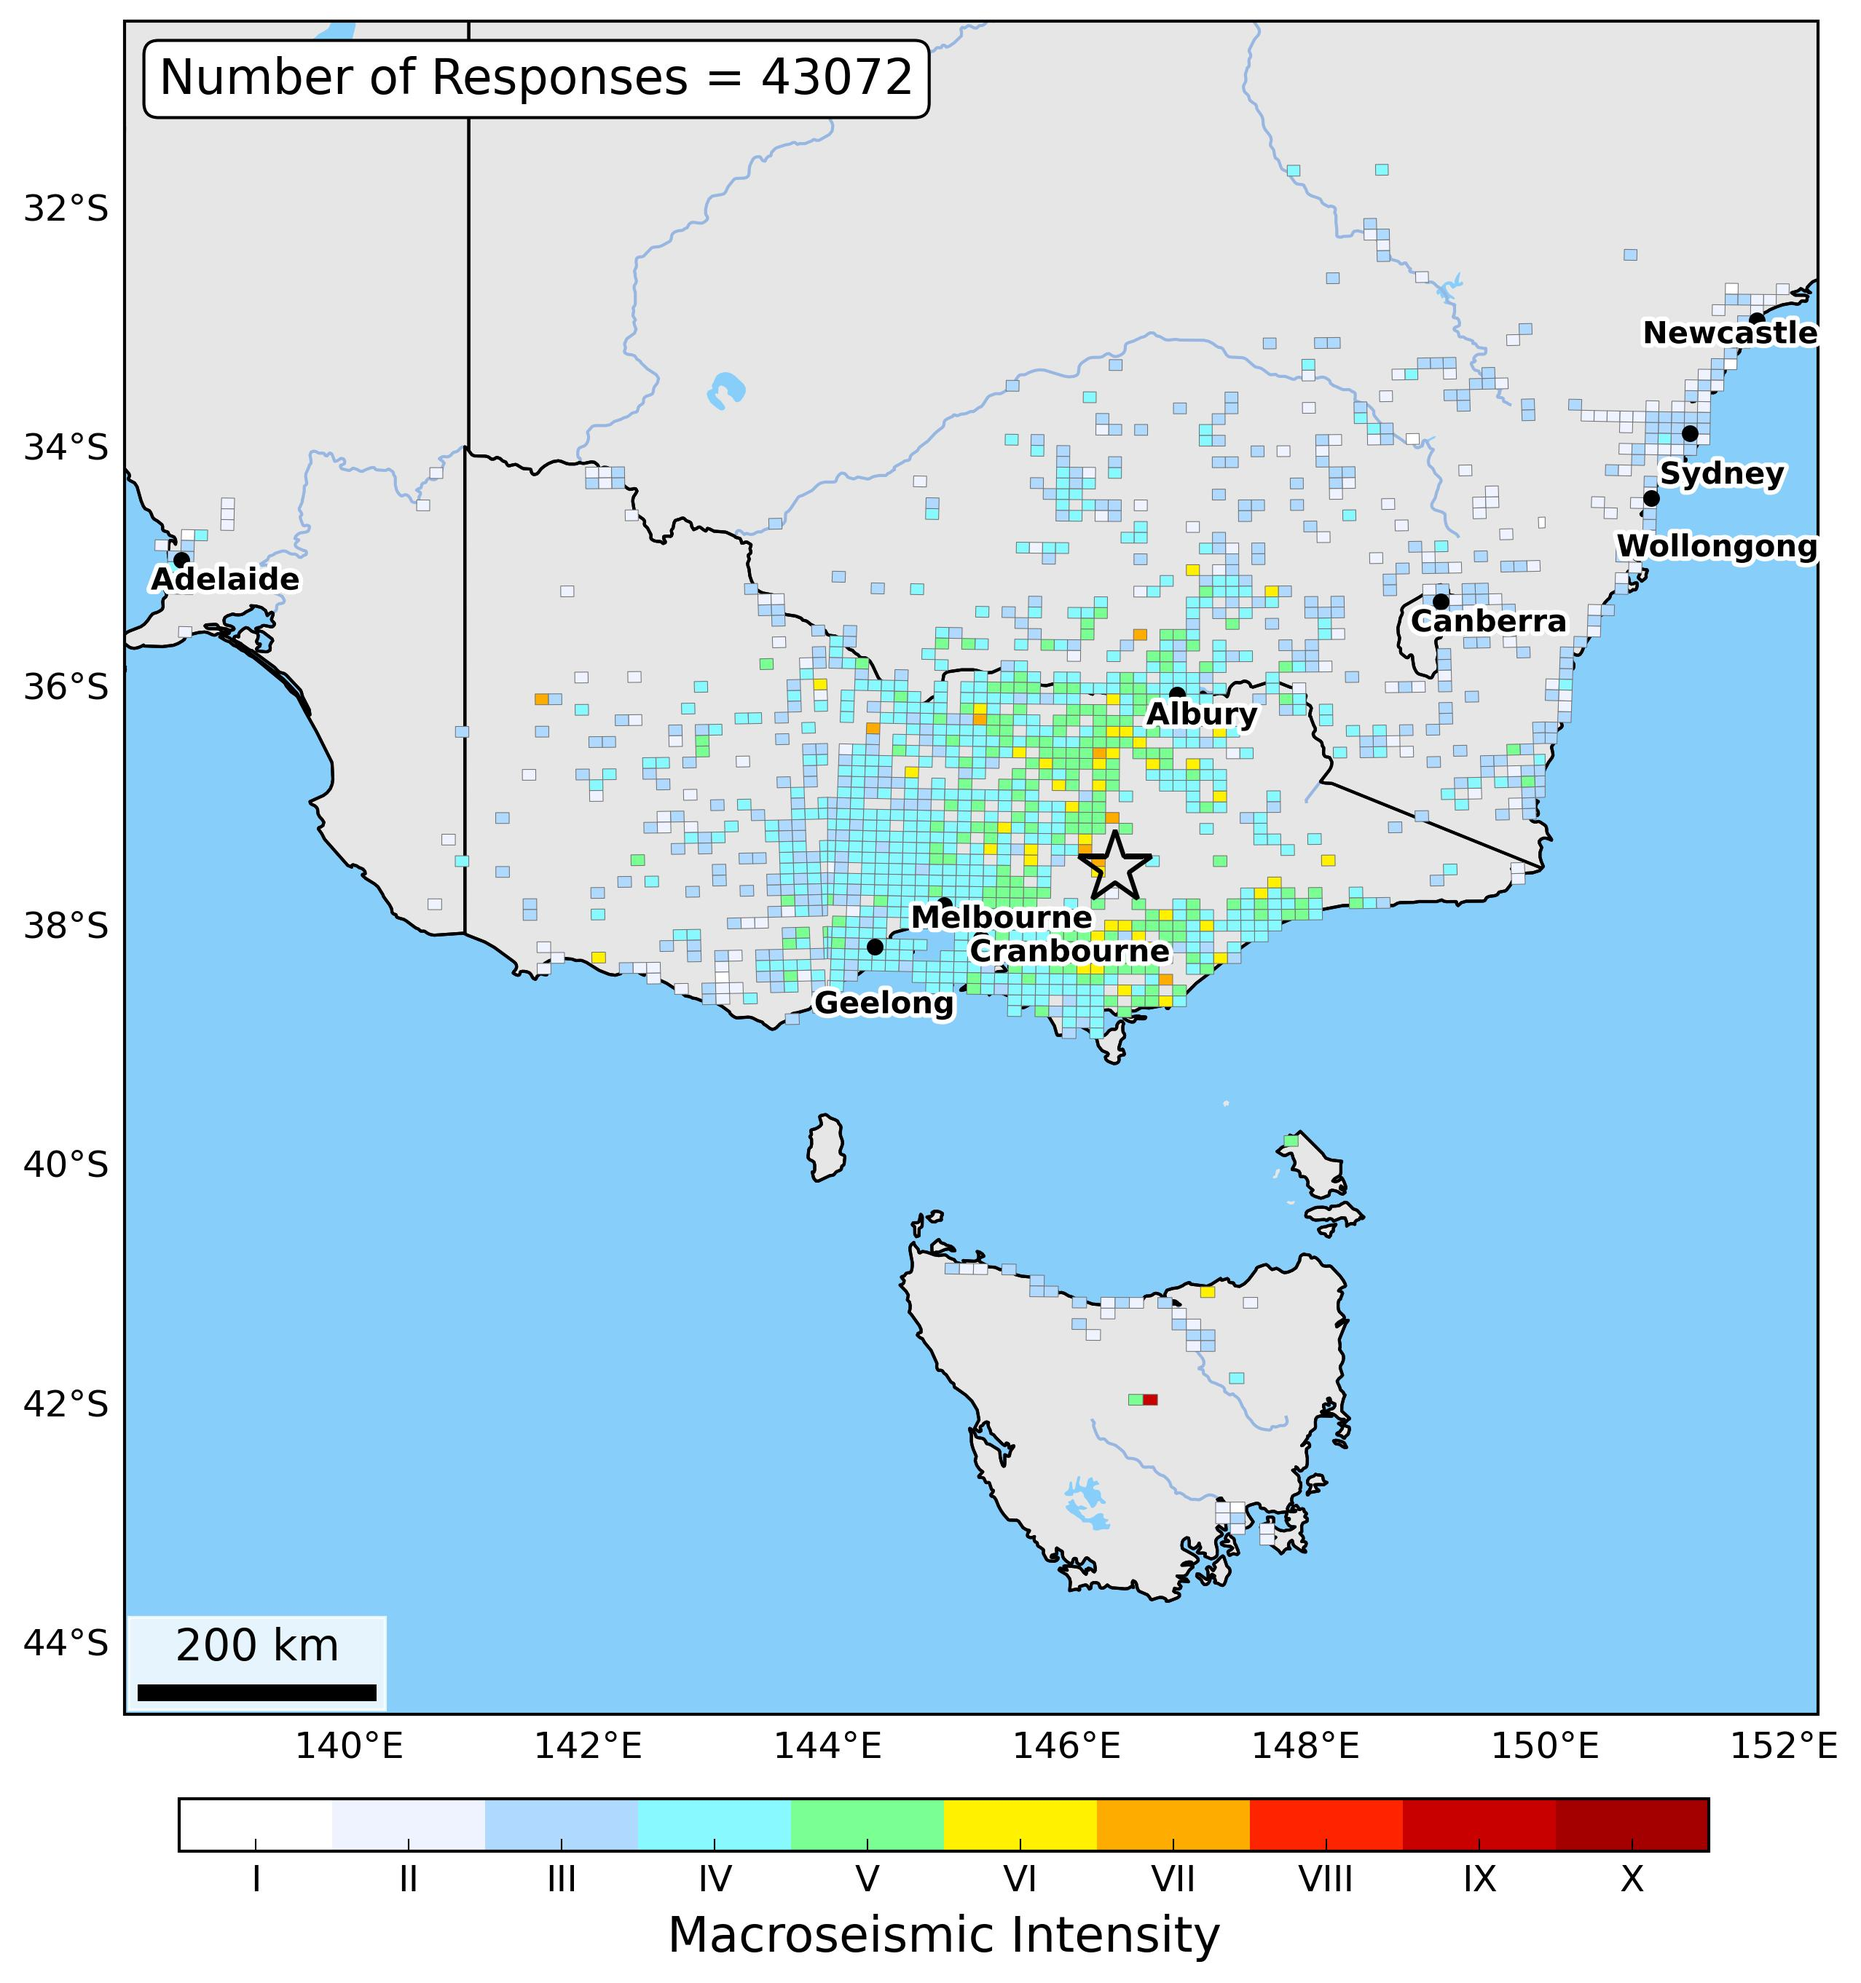
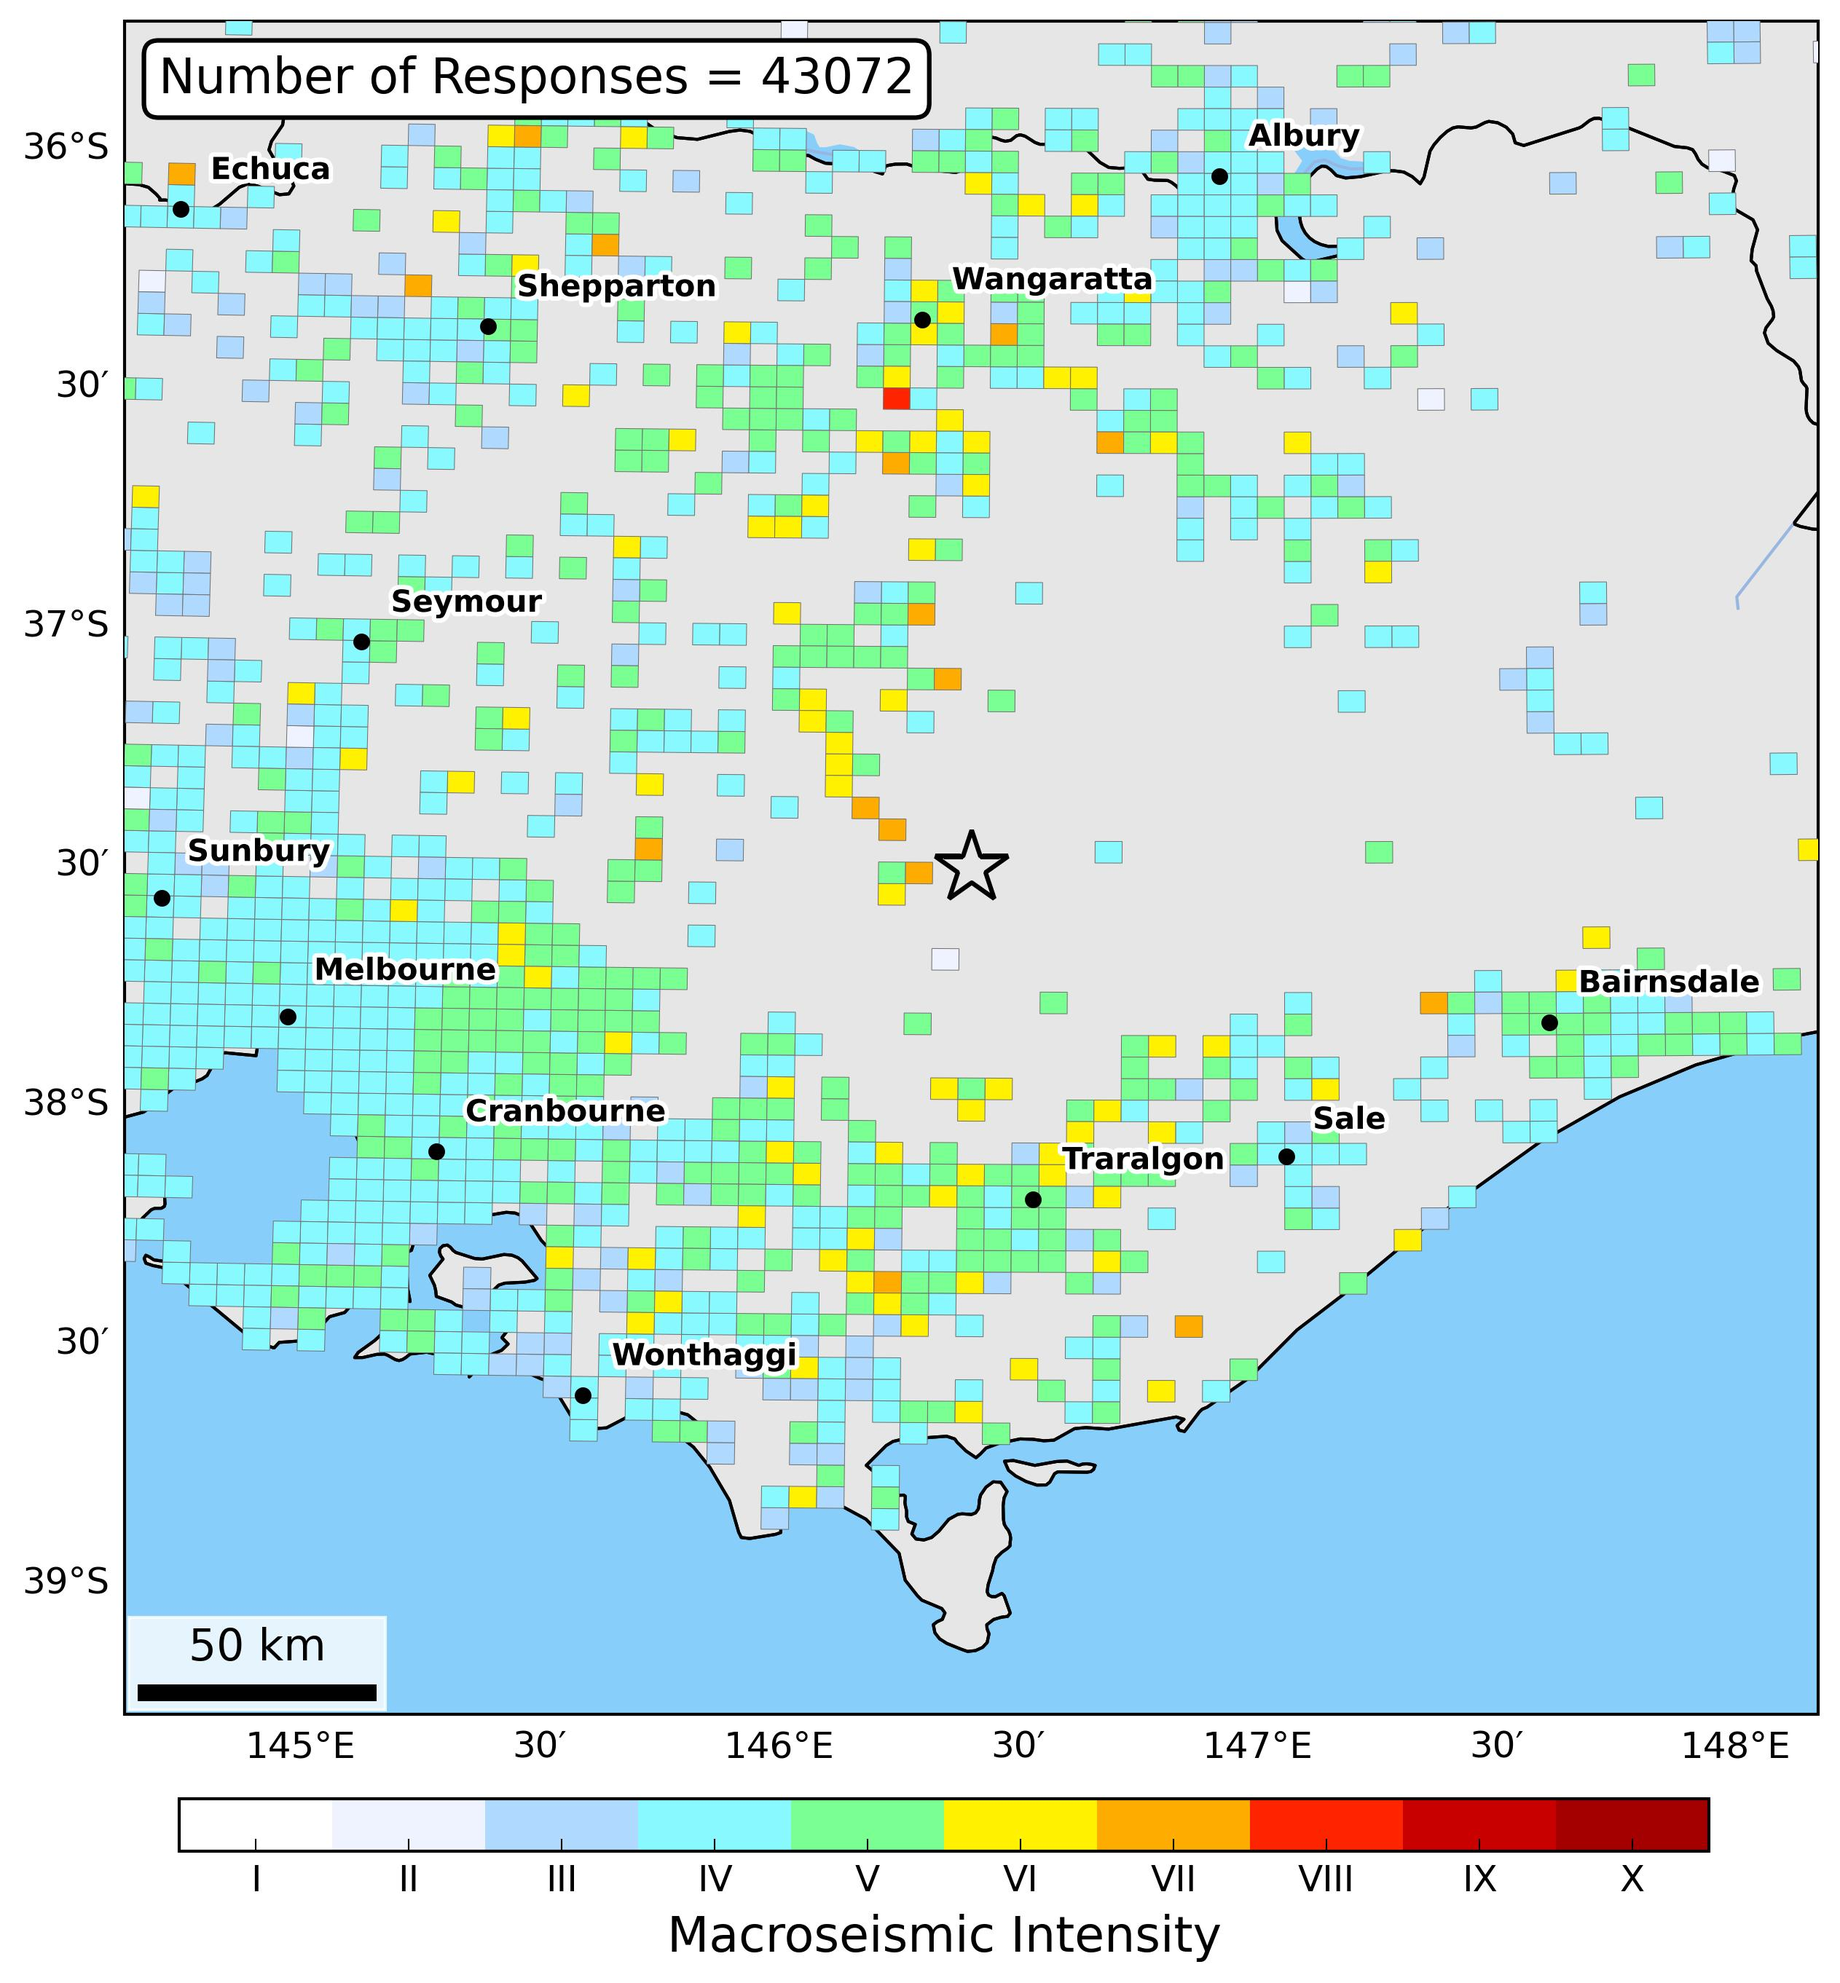
updated code and outputs

diff --git a/DYFI_Reports/DYFI_MAP.py b/DYFI_Reports/DYFI_MAP.py
@@ -48,32 +48,33 @@ for feature in data['features']:
 # set eq details
 ###############################################################################
 
-# Woods Point
-mag  = 5.9
+# Prompt the user to enter the zoom level
+zoom_factor = float(input("Enter the zoom factor (e.g., 1 for default zoom, 0.5 for closer zoom, 2 for farther view): "))
+
+# Set eq details
+mag = 5.9
 eqdep = 12.0
 eqla = -37.5063
 eqlo = 146.4022
-degrng = 5.9
+degrng = 5.9 * zoom_factor  # Adjust zoom level based on user input
 latoff = -0.0
 lonoff = -1.2
 mstr = '5.9'
 place = 'Woods Point, VIC'
 evid = '2021-09-21'
 
-##########################################################################################
-# set up map
-##########################################################################################
+# Set the map extent to center around the earthquake
+# Adjust the bounds based on `degrng` for zoom
+urcrnrlat = eqla + degrng
+llcrnrlat = eqla - degrng
+urcrnrlon = eqlo + degrng
+llcrnrlon = eqlo - degrng
 
-# make bounds on the fly - adjust to make more rectangular and taller
-urcrnrlat = eqla + degrng * 1.2 + latoff
-llcrnrlat = eqla - degrng * 1.2 + latoff
-urcrnrlon = eqlo + degrng * 1.2 + lonoff
-llcrnrlon = eqlo - degrng * 1.2 + lonoff
-
-# set up figure
+# Set up figure
 fig = plt.figure(figsize=(10, 12))
 ax = plt.axes(projection=ccrs.PlateCarree())
 ax.set_extent([llcrnrlon, urcrnrlon, llcrnrlat, urcrnrlat], crs=ccrs.PlateCarree())
+
 
 # Add map features
 ax.add_feature(cfeature.LAND, facecolor='0.9')
@@ -103,6 +104,7 @@ reader = shapereader.Reader(shpfilename)
 preferred_offset = (-0.3, -0.3)  # Preferred initial offset for placing labels (bottom-left)
 
 texts = []
+# Adjust text placement closer to the city markers
 for record in reader.records():
     city_name = record.attributes['NAME']
     lat = record.geometry.y
@@ -118,8 +120,8 @@ for record in reader.records():
         # Plot the city marker
         ax.plot(lon, lat, 'o', color='black', markersize=5, transform=ccrs.PlateCarree(), zorder=1100)
 
-        # Initially place the text in the preferred position (bottom-left)
-        text = ax.text(lon + preferred_offset[0], lat + preferred_offset[1], city_name, 
+        # Place the text closer to the city marker with a smaller offset
+        text = ax.text(lon + 0.05, lat + 0.05, city_name,
                        fontsize=10, weight='bold', color='black',
                        path_effects=[path_effects.withStroke(linewidth=3, foreground='white')],
                        transform=ccrs.PlateCarree(), zorder=1100)
@@ -129,11 +131,12 @@ for record in reader.records():
 adjust_text(
     texts,
     only_move={'points': 'xy', 'texts': 'xy'},  # Allow text to be adjusted in both x and y directions
-    expand_text=(1.5, 1.5),  # Expand space around text labels
-    force_text=(10, 10),  # Apply some force to move texts if needed
+    expand_text=(1.2, 1.2),  # Expand space around text labels slightly
+    force_text=(5, 5),  # Reduce the force to move texts compared to the original
     avoid_points=[(eqlo, eqla)],  # Avoid the earthquake location
     arrowprops=None
 )
+
 
 
 
@@ -190,11 +193,12 @@ for dyfi in dyfi_dict:
 x, y = eqlo, eqla
 ax.plot(x, y, '*', color='red', markersize=25, markerfacecolor='None', mew=1.5, transform=ccrs.PlateCarree(), zorder=1000)
 
-# add n responses txt
+# Add the number of responses text and set a higher zorder to ensure it stays on top
 plttxt = 'Number of Responses = ' + str(nresp)
 x, y = llcrnrlon + 0.02 * (urcrnrlon - llcrnrlon), urcrnrlat - 0.02 * (urcrnrlat - llcrnrlat)
-props = dict(boxstyle='round', facecolor='w', alpha=1)
-ax.text(x, y, plttxt, size=16, ha='left', va='top', bbox=props, transform=ccrs.PlateCarree(), zorder=1000)
+props = dict(boxstyle='round', facecolor='w', alpha=1, edgecolor='black', linewidth=1.5)  # Make the box more prominent
+ax.text(x, y, plttxt, size=16, ha='left', va='top', bbox=props, transform=ccrs.PlateCarree(), zorder=2000)
+
 
 ##########################################################################################
 # make colorbar
